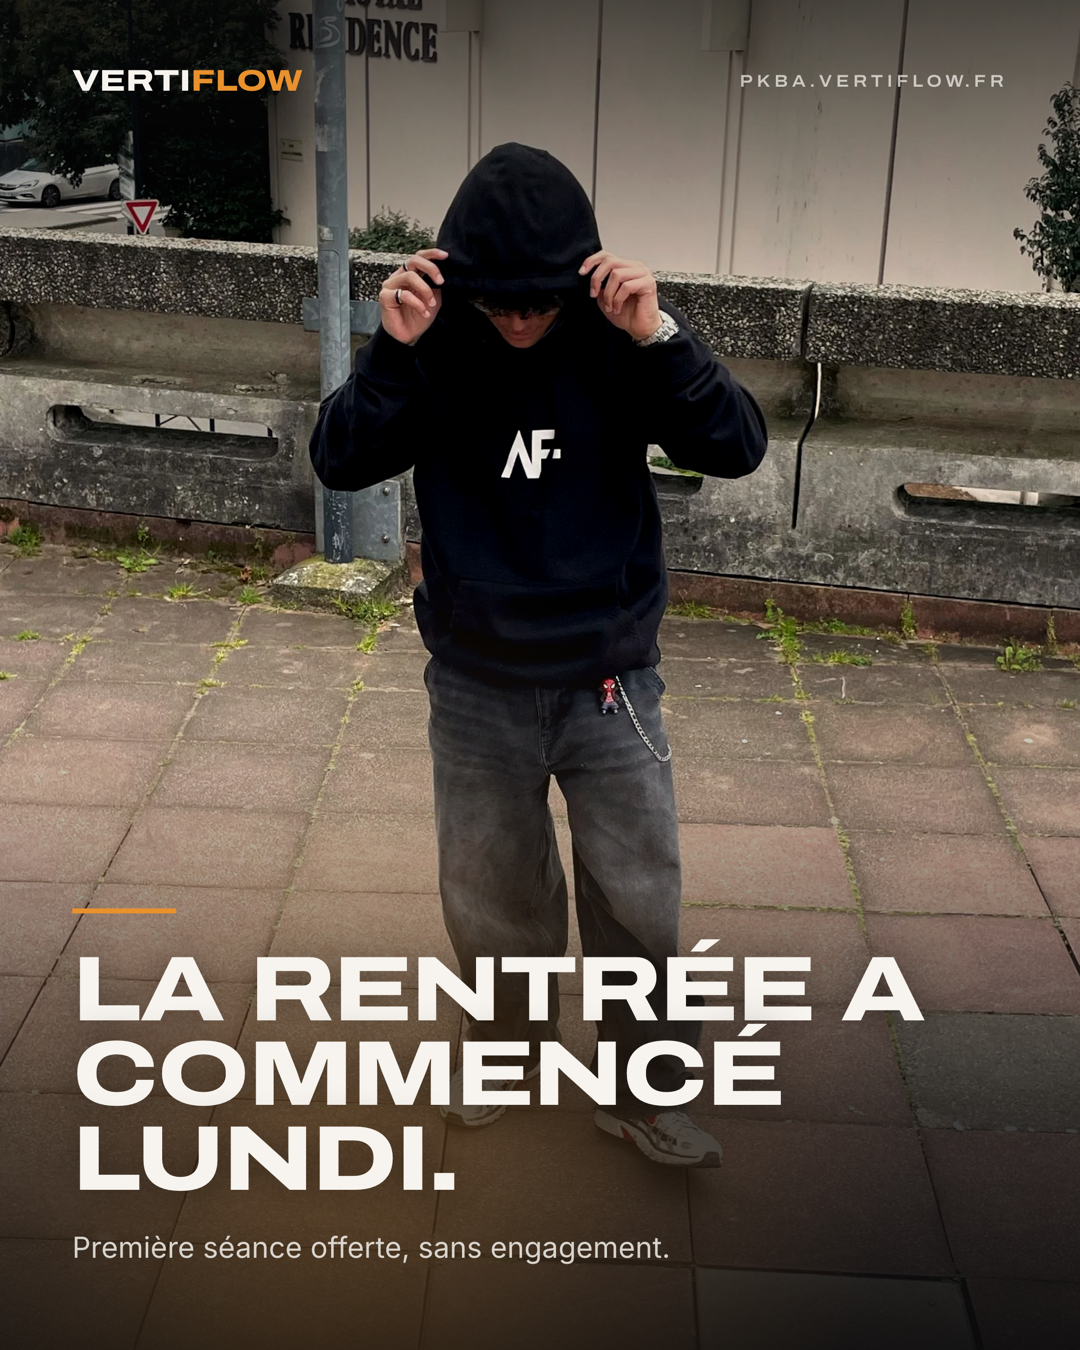
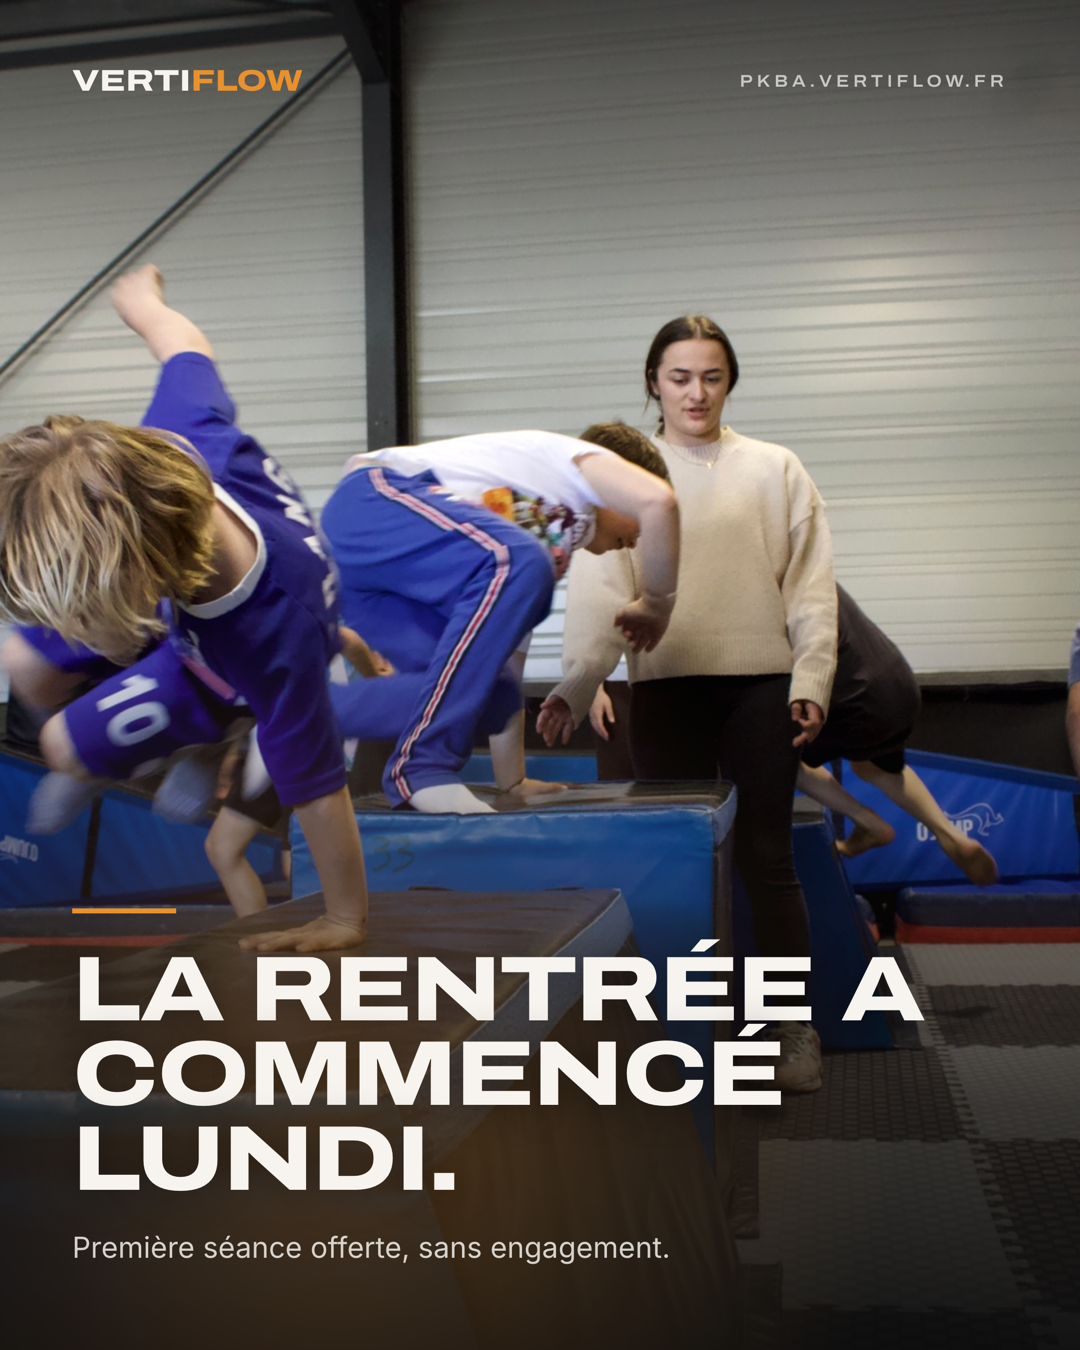
docs: roadmap for september and october, correct the follower count

diff --git a/docs/brand/roadmap-2026-09.md b/docs/brand/roadmap-2026-09.md
@@ -1,0 +1,92 @@
+# Roadmap — septembre / octobre 2026
+
+Écrit le 2026-09-10, après remise à plat du compte Instagram et de l'état du site.
+
+## La contrainte, dite franchement
+
+Le compte a 108 abonnés, 40 posts, zéro Reel, et suit 2 comptes. Maxime dispose de moins
+d'une heure par semaine, ne filmera pas, et maintient l'interdiction d'imagerie IA
+documentaire. Ces trois choix sont légitimes et ils plafonnent la croissance : sur
+Instagram en 2026, la portée hors abonnés vient de la vidéo courte, et rien d'autre ne la
+remplace.
+
+Donc le plan ci-dessous n'est pas un plan de croissance rapide. C'est un plan de
+crédibilité : que le compte ait l'air vivant, régulier et sérieux, et qu'il convertisse les
+gens qui le trouvent, plutôt que d'essayer d'en attirer beaucoup. La croissance viendra du
+club et du référencement local, pas du fil Instagram.
+
+## Indicateur unique
+
+**Abonnés gagnés par semaine.** Point de départ 108 le 2026-09-10. Un gain de 30 à 60 sur
+le mois est réaliste dans ces contraintes. Au-delà, ce serait de la chance, pas le plan.
+
+Secondaire, à regarder une fois par semaine dans le Dashboard : visites de profil et clics
+sur le lien en bio.
+
+## Répartition des rôles
+
+Claude prépare les visuels, écrit les captions, programme les posts et documente tout.
+Maxime valide avant publication et répond aux commentaires et aux DM. La réponse aux
+commentaires ne se délègue pas : c'est le seul signal qui pousse un post d'un compte
+dormant, et c'est aussi ce qui transforme un curieux en essai au club.
+
+## Calendrier, deux posts par semaine
+
+Le mercredi et le dimanche, 18h30. Tout est produit à partir des 21 photos de Bordeaux et
+des photos du club déjà versionnées dans le repo PKBA. Aucun tournage, aucune génération.
+
+| Date | Sujet | Sert quoi | Source visuelle |
+|---|---|---|---|
+| jeu 10/09 | « On a tout refait » — publié | notoriété | `2026-09-retour` |
+| dim 13/09 | « L'année du club » — programmé | club | `2026-09-club-year` |
+| mer 17/09 | T-shirt CLIMB porté | boutique | `img-0808`, `img-0946` |
+| dim 21/09 | Où s'entraîner à Bordeaux, les vrais spots | audience locale | `img-1136`, `img-1161` |
+| mer 24/09 | Hoodie VF Definition, le dos imprimé | boutique | `img-6549`, `img-6561` |
+| dim 28/09 | Trois choses à savoir avant ta première séance | club | `img-0839`, club |
+| mer 01/10 | Les shorts, portés là où on s'entraîne | boutique | `img-1153`, `img-1171` |
+| dim 05/10 | Stage de la Toussaint, 23 au 30 octobre | club | photos club |
+| mer 08/10 | Bob et casquette | boutique | `img-0737`, `img-0931` |
+| dim 12/10 | Un mois de reprise, ce qui a changé | notoriété | `img-1026`, `img-0993` |
+
+Un post boutique pour un post club ou marque. La règle des captions de lancement tient :
+jamais plus d'un post produit sur quatre qui ouvre sur le prix.
+
+## Stories
+
+Le club republie les posts VertiFlow en story, jamais l'inverse et jamais de post en
+collaboration. Deux comptes distincts, aucun lockup, aucun contenu co-signé. Cette règle
+vient des dossiers CERFA du PKBA, elle n'est pas négociable.
+
+## Ce qui doit être corrigé sur le compte
+
+1. **La bio.** Elle est restée en version emoji, à l'opposé du ton de `BRAND.md`. À
+   réécrire en phrases courtes, tutoiement, sans hype.
+2. **Le compte ne suit que 2 comptes.** Suivre les clubs, spots et traceurs de la région
+   coûte cinq minutes et rend le compte crédible.
+3. **Les stories à la une** sont vides ou obsolètes.
+
+## Site
+
+Ordre décidé : débloquer les commandes, merger, puis SEO local, puis conversion.
+
+**Bloquant, avant tout le reste.** `EMAILJS_PRIVATE_KEY` est absente du contexte production
+et les deux variables de template pointent sur le même template. Une commande payée renvoie
+500 : pas de brouillon Printful, pas d'email. Le post du 10/09 envoie déjà du trafic vers la
+boutique, donc ce trou est ouvert en ce moment même.
+
+**Ensuite, SEO local.** Le site est connecté au repo GitHub côté Netlify, donc merger la
+PR #1 suffit à déployer. Cibles : « parkour Bordeaux », « parkour Bassin d'Arcachon »,
+« commencer le parkour ». `/commencer` est déjà la bonne page d'atterrissage, il lui manque
+le balisage et les pages de destination locales. `docs/research/seo-geo-conversion.md`
+contient une liste d'actions différées à reprendre ici.
+
+**Enfin, conversion.** Utile seulement une fois qu'il y a du trafic à convertir. À ce
+moment-là : bandeau de réassurance sur les fiches produit, schéma FAQPage, et le tunnel
+d'achat.
+
+## Ce qui n'est pas automatisable, et pourquoi
+
+Un agent programmé tourne dans le cloud et n'a aucun accès au Chrome de Maxime. Il ne peut
+donc pas publier sur Instagram. Ce qui est automatisable, c'est la préparation : génération
+des visuels, rédaction des captions, mise en file. La publication passe par une session
+avec le navigateur, et chaque post est validé avant départ.

diff --git a/creative/instagram/2026-09-club-year/caption.md b/creative/instagram/2026-09-club-year/caption.md
@@ -38,9 +38,26 @@ moitié de l'année.
 VertiFlow est une micro-entreprise, le PKBA une association loi 1901 avec des dossiers
 CERFA de subvention ouverts et Maxime pour trésorier. Le post dit que la même personne a
 monté les deux, ce que `docs/brand/narrative.md` autorise explicitement. Il ne dit **pas**
-que VertiFlow équipe le club, ne fait aucun lien entre les ventes et l'activité de
-l'association, et n'utilise aucun visuel du club. Ces trois lignes sont interdites, pas
-déconseillées.
+que VertiFlow équipe le club et ne fait aucun lien entre les ventes de la marque et
+l'activité de l'association. Ces deux lignes sont interdites, pas déconseillées.
+
+Le carrousel est équilibré à trois slides VertiFlow (1, 2, 3) et trois slides club
+(4, 5, 6) pour que la lecture reste « un fondateur, deux structures » et non « une seule
+organisation ».
+
+## Photos du club
+
+Les slides 4, 5 et 6 viennent du repo PKBA. Elles y sont déjà versionnées et `AirKyzzZ/PKBA`
+est public, donc les committer ici n'expose rien de nouveau.
+
+| Slide | Fichier | Personnes identifiables |
+|---|---|---|
+| 4 | `flyers/_system/photos/IMG_5064.jpg` | une, en mouvement, visage non exploitable |
+| 5 | `flyers/_system/photos/IMG_4970.jpg` | deux, dont un mineur au second plan, visage net |
+| 6 | `flyers/_system/photos/IMG_4919.jpg` | une encadrante et plusieurs mineurs, visages nets |
+
+Le droit à l'image relève des autorisations recueillies par l'association. À vérifier avant
+publication, en particulier pour la slide 6.
 
 ## Faits, et leur source dans le repo PKBA
 

diff --git a/docs/brand/instagram-strategy.md b/docs/brand/instagram-strategy.md
@@ -1,5 +1,12 @@
 # VertiFlow — Instagram strategy
 
+> **Correction du 2026-09-10.** Le chiffre de 10k abonnés ci-dessous est faux. Vérifié
+> directement sur @vertiflowfreerun : **108 abonnés, 40 posts, zéro Reel, 2 abonnements**.
+> Tout ce document est construit sur une hypothèse de réactivation d'audience dormante,
+> alors que le vrai problème est la construction d'une audience. Les captions, les formats
+> et les règles de ton restent valables ; l'analyse de portée et les tactiques de
+> re-permission ne le sont pas. Le plan à jour est dans `docs/brand/roadmap-2026-09.md`.
+
 An executable plan for one account, roughly 10k followers, silent for months, run by one
 person with a full-time job. Everything below assumes `BRAND.md` and
 `creative/house-look.md` as fixed constraints, not suggestions.
